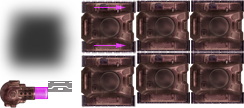
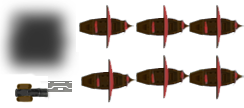
LessonUpdate

diff --git a/js/TankScene.js b/js/TankScene.js
@@ -12,12 +12,18 @@ class TankScene extends Phaser.Scene {
     bullets
     /** @type {Phaser.Physics.Arcade.Group} */
     enemyBullets
+    /** @type {Phaser.GameObjects.Group} */
+    explosions
     preload() {
         this.load.image('bullet', 'assets/tanks/bullet.png')
         this.load.atlas('tank','assets/tanks/tanks.png','assets/tanks/tanks.json')
+        this.load.atlas('boss','assets/tanks/boss-tanks.png','assets/tanks/tanks.json')
         this.load.atlas('enemy','assets/tanks/enemy-tanks.png','assets/tanks/tanks.json')
         this.load.image('tileset', 'assets/tanks/landscape-tileset.png')
         this.load.tilemapTiledJSON('level1', 'assets/level1.json')
+        this.load.spritesheet('kaboom','assets/tanks/explosion.png',{
+            frameWidth:64,frameHeight:64
+        })
     }
     create() {
         this.map = this.make.tilemap({key:'level1'})
@@ -37,6 +43,8 @@ class TankScene extends Phaser.Scene {
             defaultKey: 'bullet',
             maxSize: 5
         })
+       
+
 
         const objectLayer = this.map.getObjectLayer('objectLayer')
         let enemyObjects = []
@@ -46,7 +54,7 @@ class TankScene extends Phaser.Scene {
             if(actor.type == "playerSpawn"){
                 this.createPlayer(actor)
             }
-            else if(actor.type == "enemySpawn"){
+            else if(actor.type == "enemySpawn"||actor.type == "bossSpawn"){
                 enemyObjects.push(actor)
             }
 
@@ -55,7 +63,24 @@ class TankScene extends Phaser.Scene {
         for(let i = 0; i < enemyObjects.length; i++){
             this.createEnemy(enemyObjects[i])
         }
-
+        //create explosions
+        this.explosions = this.add.group ({
+            defaultKey: 'kaboom',
+            maxSize: enemyObjects.length + 1
+        })
+        this.anims.create({
+            key: 'explode',
+            frames: this.anims.generateFrameNumbers('kaboom', {
+                start: 0,
+                end:23,
+                first:23
+            }),
+            frameRate:24
+        })
+        this.input.on('pointerdown', this.tryShoot, this)
+        this.physics.world.on('worldbounds', function(body){
+            this.disposeOfBullet(body.gameObject)
+        }, this)
     }
     update(time, delta) {
         this.player.update()
@@ -64,9 +89,17 @@ class TankScene extends Phaser.Scene {
         }
     }
     createEnemy(dataObject){
-        let enemyTank = new EnemyTank(this, dataObject.x,dataObject.y,'enemy','tank1', this.player)
+        let enemyTank
+        if(dataObject.type == 'enemySpawn'){
+            enemyTank = new EnemyTank(this, dataObject.x,dataObject.y,'enemy','tank1', this.player)
+            
+        }else if(dataObject.type == 'bossSpawn'){
+            enemyTank = new BossTank(this, dataObject.x,dataObject.y,'boss','tank1', this.player)
+        }
+       
           enemyTank.initMovement()
         enemyTank.enableCollision(this.destructLayer)
+        enemyTank.setBullets(this.enemyBullets)
         this.physics.add.collider(enemyTank.hull,this.player.hull)
         this.enemyTanks.push(enemyTank)
         if(this.enemyTanks.length>1){
@@ -78,5 +111,95 @@ class TankScene extends Phaser.Scene {
     createPlayer(dataObject){
         this.player = new PlayerTank(this, dataObject.x,dataObject.y,'tank','tank1')
         this.player.enableCollision(this.destructLayer)
+    }
+    tryShoot(pointer){
+        /** @type {Phaser.Physics.Arcade.Sprite} */
+        let bullet = this.bullets.get(this.player.turret.x, this.player.turret.y)
+        if(bullet){
+            this.fireBullet(bullet, this.player.turret.rotation, this.enemyTanks)
+        }
+    }
+    fireBullet(bullet, rotation, target){
+        //the bullet is a sprite :)
+        bullet.setDepth(3)
+        bullet.body.collideWorldBounds = true
+        bullet.body.onWorldBounds = true
+        bullet.enableBody(false, bullet.x, bullet.y, true, true)
+        bullet.rotation = rotation
+        this.physics.velocityFromRotation(bullet.rotation, 500, bullet.body.velocity)
+        this.physics.add.collider(bullet, this.destructLayer, this.damageWall,null, this)
+        if(target === this.player){
+            this.physics.add.overlap(this.player.hull,bullet, this.bulletHitPlayer,null,this)
+
+        }else{for(let i = 0; i < this.enemyTanks.length; i++){
+            this.physics.add.overlap(this.enemyTanks[i].hull, bullet, this.bulletHitEnemy, null, this)
+            this.bulletHitEnemy,null,this}
+        }
+
+    }
+    bulletHitPlayer(hull, bullet){
+        this.disposeOfBullet(bullet)
+        this.player.damage()
+        if(this.player.isDestroyed()){
+            this.input.enabled = false
+            this.enemyTanks = []
+            this.physics.pause()
+            let explosion = this.explosions.get(hull.x, hull. y)
+            if(explosion){
+                this.activateExplosion(explosion)
+                explosion.play('explode')
+            }
+        }
+
+    }
+    bulletHitEnemy(hull, bullet){
+        /** @type {EnemyTank} */
+        let enemy
+        /** @type {number} */
+        let index
+        for(let i = 0; i < this.enemyTanks.length; i++){
+            if(this.enemyTanks[i].hull === hull){
+                enemy = this.enemyTanks[i]
+                index = i
+                break
+            }
+        }
+        this.disposeOfBullet(bullet)
+        enemy.damage()
+        if(enemy.isImmobilised()){
+            let explosion = this.explosions.get(hull.x,hull.y)
+            if(explosion){
+                this.activateExplosion(explosion)
+                explosion.on('animationComplete',this.animComplete,this)
+                explosion.play('explode')
+            }
+            if(enemy.isDestroyed()){
+                this.enemyTanks.splice(index, 1)
+            }
+        }
+    
+    }
+    activateExplosion(explosion){
+        explosion.setDepth(5)
+        explosion.setActive(true)
+        explosion.setVisible(true)
+    }
+    damageWall(bullet, tile){
+        this.disposeOfBullet(bullet)
+        let  firstGid = this.destructLayer.tileset[0].firstgid
+        let nextTileId = tile.index + 1 - firstGid
+        let tileProperties = this.destructLayer.tileset[0].tileProperties[nextTileId]
+        let newTile = this.destructLayer.putTileAt(nextTileId + firstGid, tile.x, tile.y)
+        if(tileProperties&&tileProperties.collides){
+            newTile.setCollision(true)
+        }
+
+    }
+    disposeOfBullet(bullet){
+        bullet.disableBody(true, true)
+    }
+    animComplete(animation, frame, gameObject){
+        this.explosions.killAndHide(gameObject)
+
     }
 }

diff --git a/js/PlayerTank.js b/js/PlayerTank.js
@@ -17,20 +17,16 @@ class PlayerTank extends BaseTank{
             if(this.currentSpeed < this.tankSpeed){
                 this.currentSpeed += 10
             }
-        }else if(this.keys.s.isDown){
-            if(this.currentSpeed > -this.tankSpeed){
-                this.currentSpeed -= 10
-            }
         }else(
             this.currentSpeed *= 0.9
         )
-        if(this.keys.a.isDown){
+        if(this.keys.a.isDown&& !this.isDestroyed()){
             if(this.currentSpeed > 0){
                 this.hull.angle--
             }else(
                 this.hull.angle++
             )
-        }else if(this.keys.d.isDown){
+        }else if(this.keys.d.isDown&& !this.isDestroyed()){
             if(this.currentSpeed > 0){
                 this.hull.angle++
             }else(
@@ -40,5 +36,12 @@ class PlayerTank extends BaseTank{
         this.scene.physics.velocityFromRotation(this.hull.rotation,this.currentSpeed, this.hull.body.velocity)
         const worldPoint = this.scene.input.activePointer.positionToCamera(this.scene.cameras.main)
         this.turret.rotation = Phaser.Math.Angle.Between(this.turret.x, this.turret.y, worldPoint.x, worldPoint.y)
+    }
+    damage(){
+        this.scene.cameras.main.shake(200,0.005)
+        this.damageCount++
+        if(this.isDestroyed()){
+            this.burn()
+        }
     }
 }

diff --git a/js/EnemyTank.js b/js/EnemyTank.js
@@ -3,6 +3,11 @@ class EnemyTank extends BaseTank{
     player
     /** @type {number} */
     tankSpeed = 100
+    /** @type {number} */
+    shotInterval = 2000
+    /** @type {number} */
+    nextShot = 0
+
     constructor(scene, x ,y, texture, frame, player){
         super(scene, x ,y, texture, frame)
         this.player = player
@@ -15,5 +20,27 @@ class EnemyTank extends BaseTank{
     update(time,delta){
         super.update()
         this.turret.rotation = Phaser.Math.Angle.Between(this.hull.x,this.hull.y,this.player.hull.x,this.player.hull.y)
+        if(this.damageCount <= this.damageMax - 2 && Phaser.Math.Distance.Between(this.hull.x,this.hull.y,this.player.hull.x,this.player.hull.y) < 300){
+            //within range
+            if(this.nextShot > time){
+                //wait
+                return
+
+            }this.nextShot = time + this.shotInterval
+            let bullet = this.bullets.get(this.turret.x, this.turret.y)
+            if(bullet){
+                this.scene.fireBullet(bullet, this.turret.rotation, this.player)
+            }
+
+        }
+    }
+    damage(){
+        this.damageCount++
+        if(this.damageCount >= this.damageMax){
+            this.turret.destroy()
+            this.hull.destroy()
+        }else if(this.damageCount == this.damageMax -1){
+            this.burn()
+        }
     }
 }

diff --git a/js/BaseTank.js b/js/BaseTank.js
@@ -3,16 +3,23 @@ class BaseTank{
     tankSpeed = 100
     /** @type {number} */
     damageMax = 2
+    /** @type {Phaser.Physics.Arcade.Group} */
+    bullets
     constructor(scene, x, y,texture,frame){
         this.scene = scene
         this.shadow = this.scene.add.image(x,y,texture, 'shadow')
         this.shadow.setDepth(1)
         this.hull = this.scene.physics.add.sprite(x,y,texture,frame)
+        this.hull.displayWidth=(172)
+        this.hull.displayHeight=(172)
+        
         this.hull.setDepth(2)
+        
         this.hull.body.collideWorldBounds = true
         this.hull.body.bounce.setTo(1,1)
         this.turret = this.scene.physics.add.sprite(x,y, texture,'turret')
         this.turret.setDepth(4)
+        
         this.damageCount = 0
         
     }
@@ -24,16 +31,24 @@ class BaseTank{
     damage(){
 
     }
-    setBullets(){
-
+    setBullets(bullets){
+        this.bullets = bullets
     }
     burn(){
+        this.turret.setVisible(false)
+        this.hull.setVelocity(0)
+        this.hull.body.immovable = true
 
     }
     isDestroyed(){
-
+        if(this.damageCount>= this.damageMax){
+            return true
+        }
     }
     isImmobilised(){
+        if(this.damageCount >= this.damageMax -1){
+            return true
+        }
 
     }
     enableCollision(destructLayer){

diff --git a/index.html b/index.html
@@ -9,6 +9,7 @@
     <script src="js/Utils.js"></script>
     <script src="js/BaseTank.js"></script>
     <script src="js/EnemyTank.js"></script>
+    <script src="js/BossTank.js"></script>
     <script src="js/PlayerTank.js"></script>
     <script src="js/TankScene.js"></script>
     <style type="text/css">
@@ -22,8 +23,8 @@
     <script>
         var config = {
             type: Phaser.AUTO,
-            width: 800,
-            height: 600,
+            width: 2500,
+            height: 1200,
             physics: {
                 default: 'arcade',
                 arcade: {

diff --git a/js/BossTank.js b/js/BossTank.js
@@ -1,0 +1,11 @@
+class BossTank extends EnemyTank{
+    /** @type {number} */
+    shotInterval = 1000
+    /** @type {number} */
+    tankSpeed = 50
+    /** @type {number} */
+    damageMax = 5
+    constructor(scene, x ,y, texture, frame, player){
+        super(scene, x ,y, texture, frame, player)
+    }
+}
